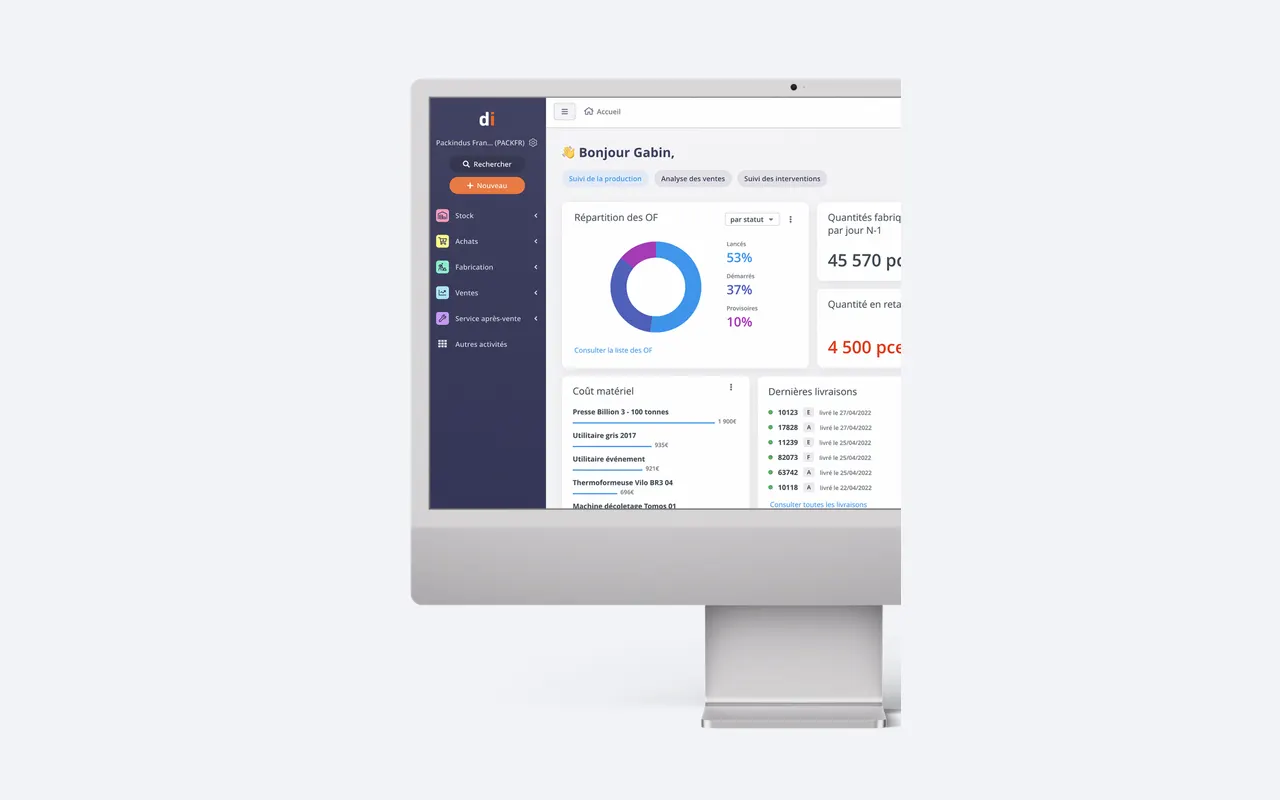
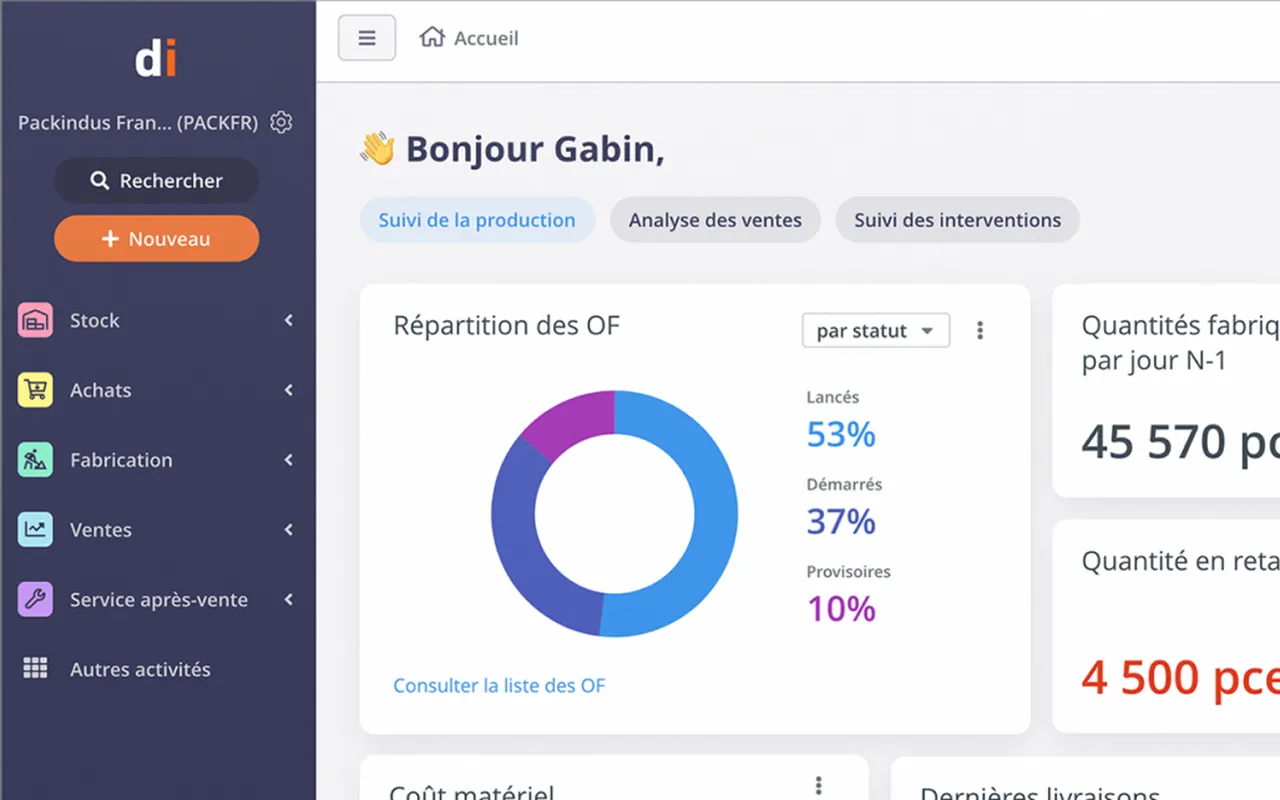
feat: maillage interne vers les classements, llms.txt, Hn du footer, visuel Divalto recadré
Claude-Session: https://claude.ai/code/session_01WJqcVZU8euK4vL1MtFGddm

diff --git a/src/styles/article.css b/src/styles/article.css
@@ -32,7 +32,7 @@
   conic-gradient(from 20deg at 0 100%, rgba(46,46,255,.7) 0 30deg, transparent 30deg); opacity: .5; }
 .site-footer__grid { position: relative; max-width: var(--content-wide); margin: 0 auto; padding: 44px 20px; display: grid; gap: 28px; grid-template-columns: repeat(auto-fit, minmax(180px, 1fr)); }
 .site-footer__about { font-family: var(--font-sans); font-size: 14px; line-height: 1.6; color: rgba(255,255,255,.78); margin-top: 12px; max-width: 32ch; }
-.site-footer h4 { font-family: var(--font-mono); font-size: 11px; letter-spacing: 0.12em; text-transform: uppercase; color: rgba(255,255,255,.6); margin: 0 0 12px; }
+.site-footer .site-footer__title { font-family: var(--font-mono); font-size: 11px; letter-spacing: 0.12em; text-transform: uppercase; color: rgba(255,255,255,.6); margin: 0 0 12px; }
 .site-footer ul { list-style: none; margin: 0; padding: 0; display: grid; gap: 9px; }
 .site-footer ul a { font-family: var(--font-ui); font-size: 14px; color: rgba(255,255,255,.88); text-decoration: none; }
 .site-footer ul a:hover { color: var(--orange); }
